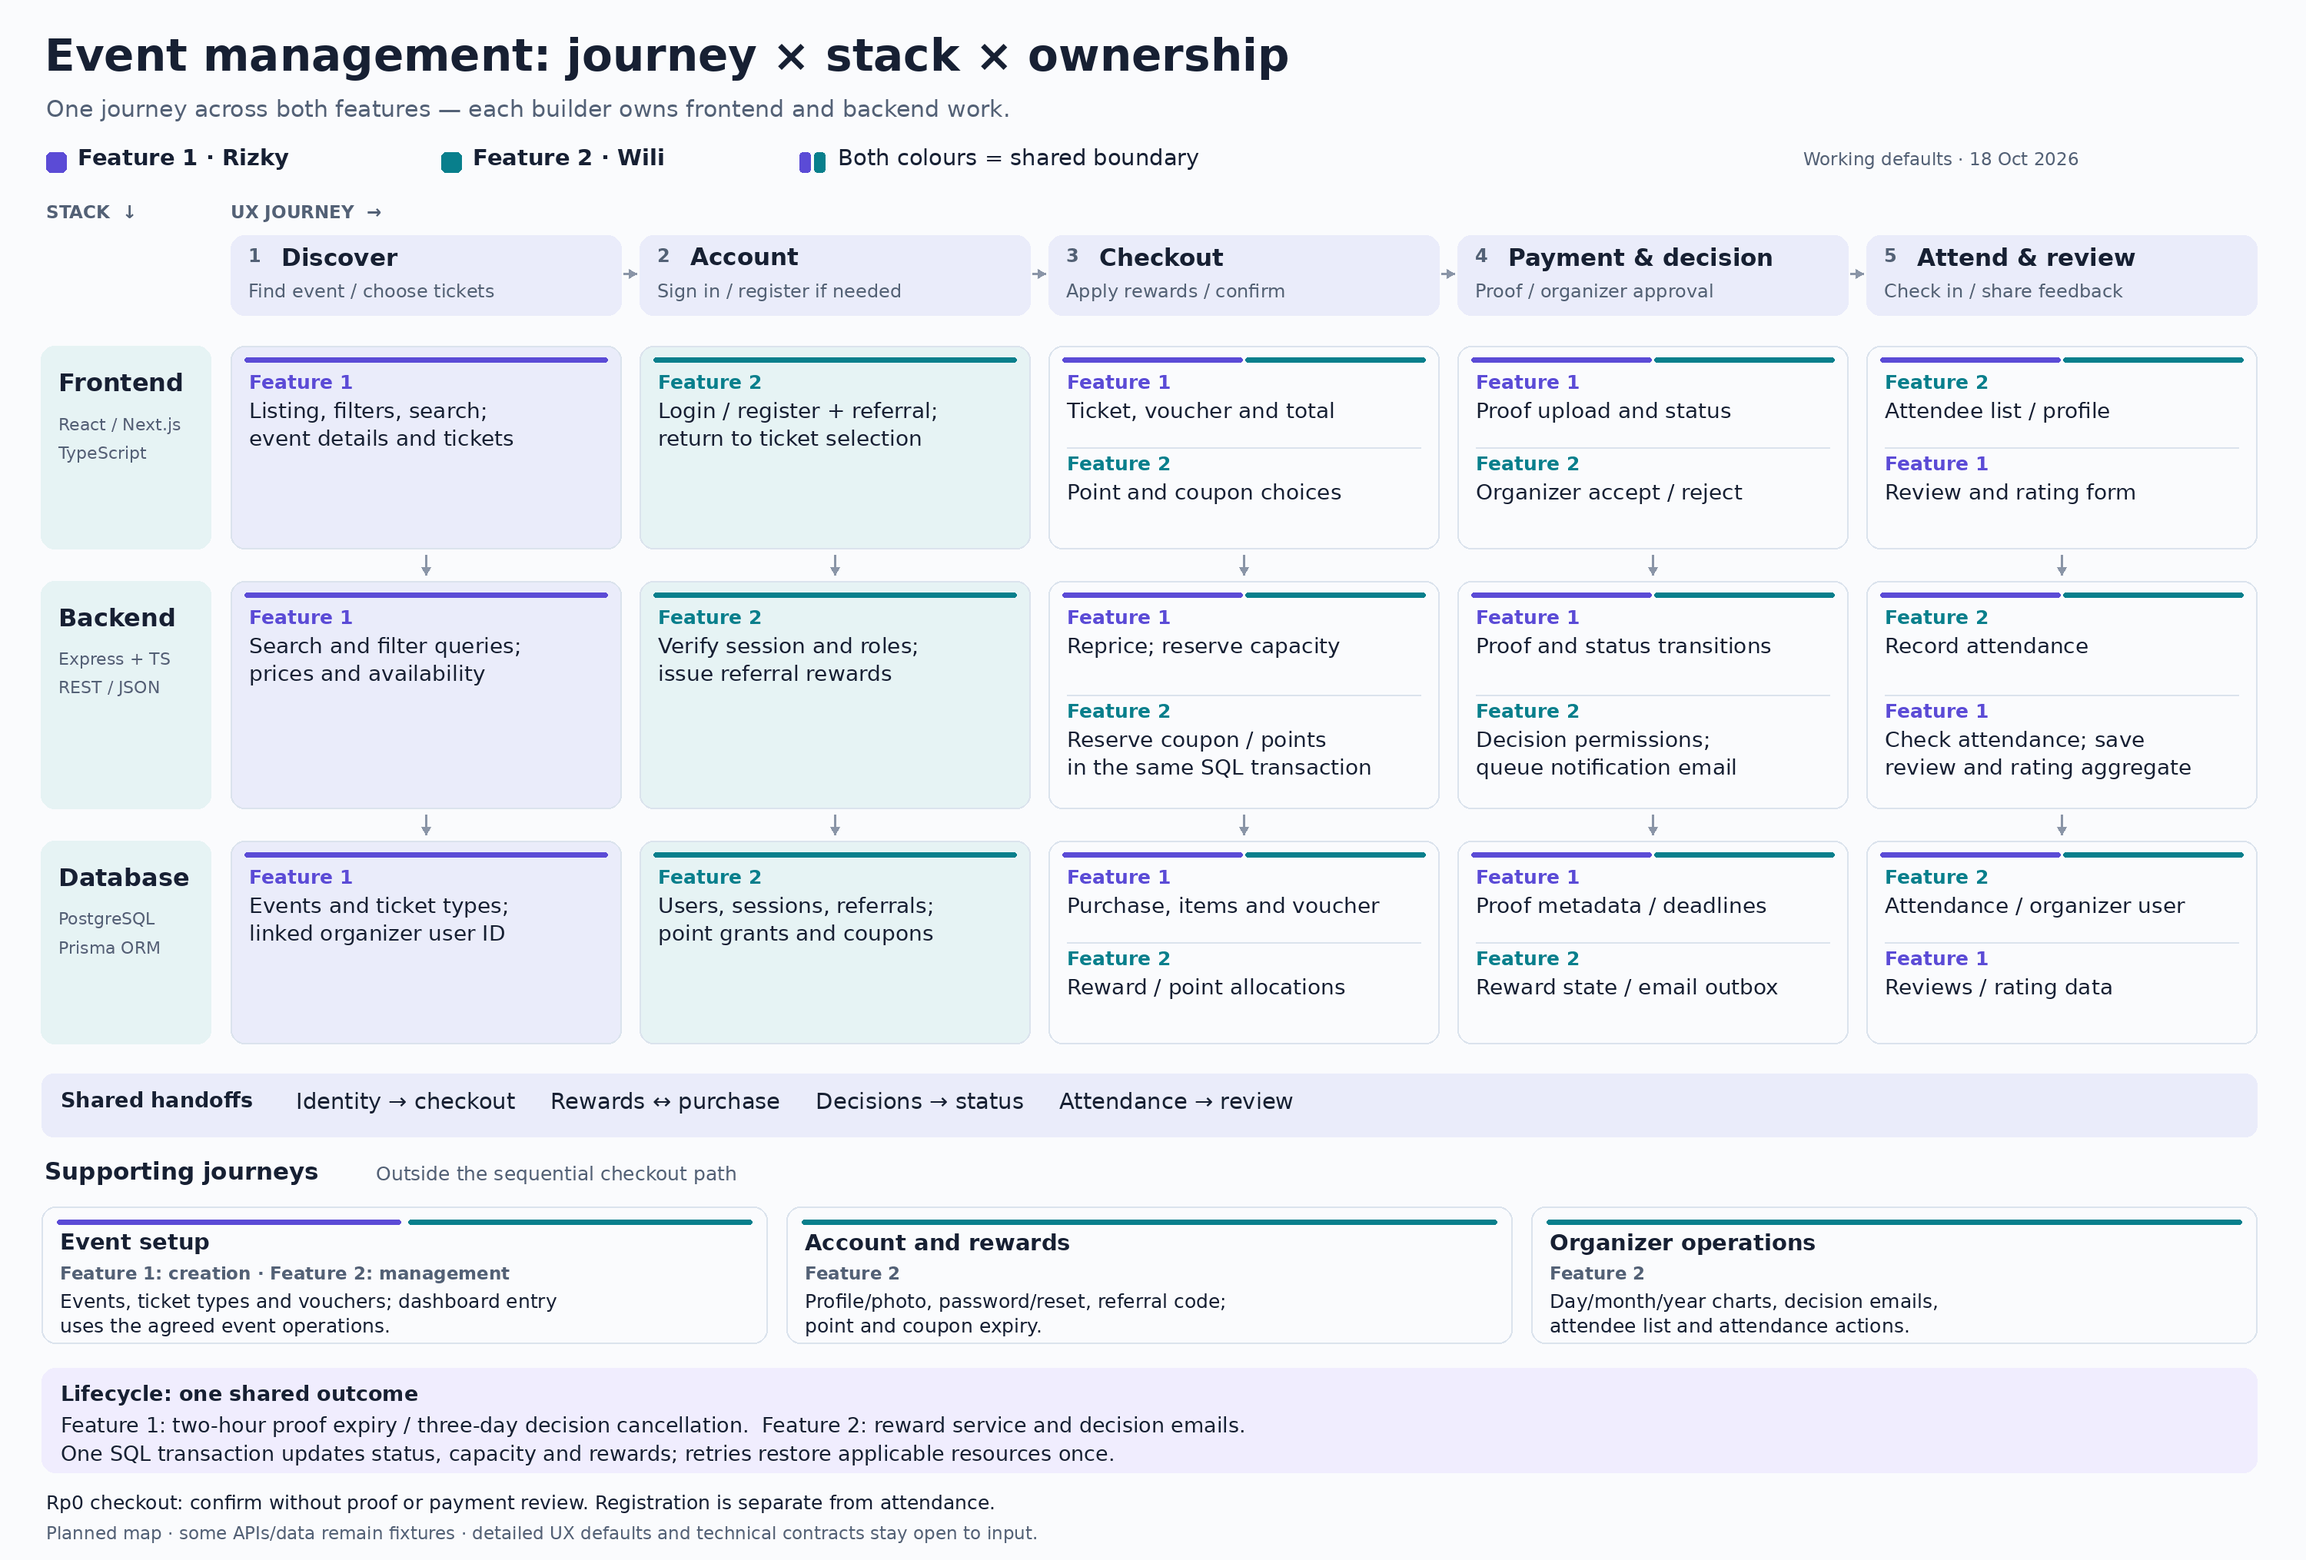
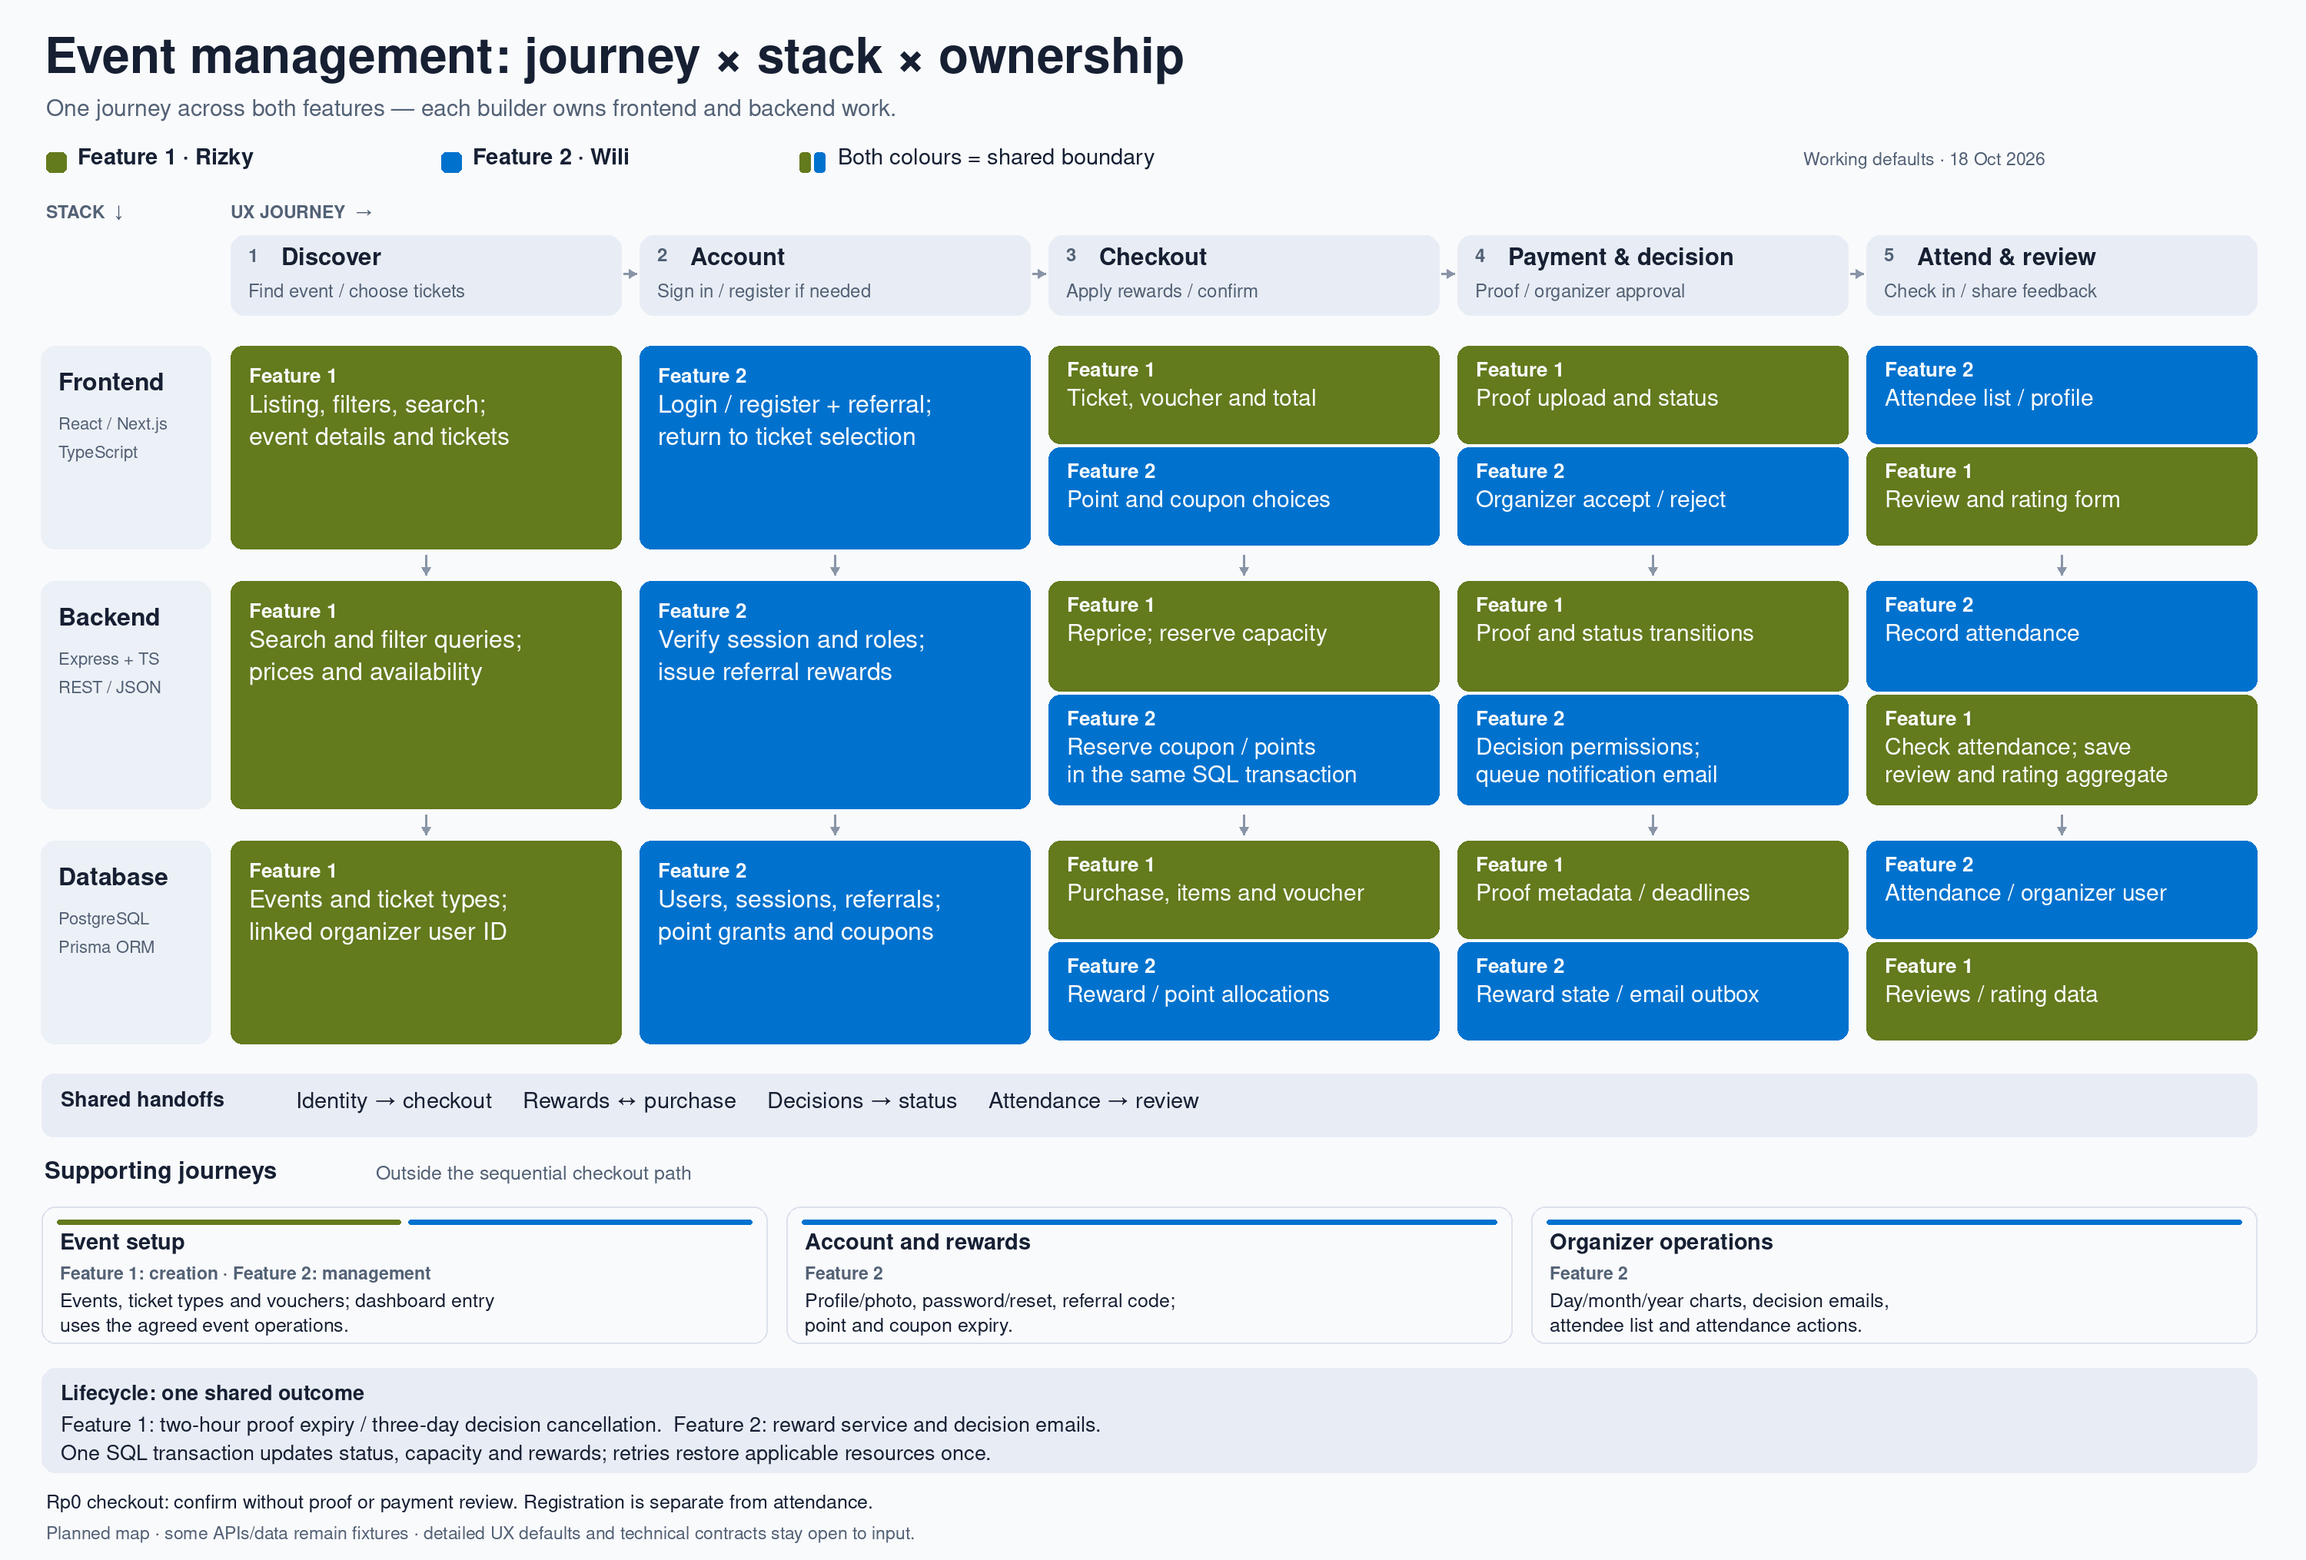
Use olive and azure ownership colours with clearer diagram typography

diff --git a/docs/shared/ux-reference.md b/docs/shared/ux-reference.md
@@ -1,6 +1,6 @@
 # Shared UX reference
 
-[![UX journey across frontend, backend and database, with purple for feature 1, teal for feature 2, and paired colours for shared work.](assets/ux-journey-stack-map.png)](assets/ux-journey-stack-map.png)
+[![UX journey across frontend, backend and database, with olive green for feature 1, azure blue for feature 2, and paired colours for shared work.](assets/ux-journey-stack-map.png)](assets/ux-journey-stack-map.png)
 
 [Full-size PNG](assets/ux-journey-stack-map.png) · [Editable SVG](assets/ux-journey-stack-map.svg)
 
@@ -152,6 +152,7 @@ The map follows the supplied PRD and the working defaults below. Website referen
 | 2026-10-18 | Options A recorded as working defaults, open to changes following input. PRD requirements and inferred behavior are identified above. |
 | 2026-10-18 | Added journey/stack matrices, organizer/account flows and cross-feature data/operation ownership; linked the technical reference. |
 | 2026-10-18 | Added a colour-coded journey/stack flow diagram at the top, with full-size PNG and editable SVG assets. Existing UX defaults are unchanged. |
+| 2026-10-18 | Updated the diagram to solid olive green for feature 1 and azure blue for feature 2, with white text and Nimbus Sans typography. Flow and ownership are unchanged. |
 
 For a revision, record the changed option, reason, date and affected customer/organizer flow. Update both features' interface expectations and relevant tests together. Decisions internal to one feature remain with its builder.
 
